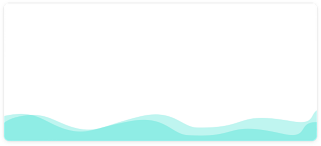
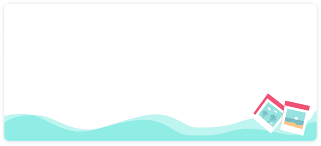
user scenic页面调整

Changed region(s): [[0.7788, 0.6301, 0.9657, 0.9315]]

diff --git a/src/views/css/user.scss b/src/views/css/user.scss
@@ -92,7 +92,7 @@ html, body, #root, .container2 {
             p {
               font-size: .1rem;
               line-height: .1rem;
-              color: darkgray;
+              color: #7E7E7E;
               margin-top: .16rem;
             }
             .loginbtn {
@@ -131,12 +131,12 @@ html, body, #root, .container2 {
             background:url("../../assets/fly.png") no-repeat;
             h5 {
               font:0.15rem/0.3rem "";
-              color: darkgray;
+              color: #050505;
               margin: .2rem 0 0 .17rem;
             }
             p {
               font:0.12rem/0.2rem "";
-              color: darkgray;
+              color: #777777;
               margin-left: .17rem;
             }
           }
@@ -148,7 +148,7 @@ html, body, #root, .container2 {
             background:url("../../assets/usertravels.png") no-repeat;
             h5 {
               font:0.15rem/0.3rem "";
-              color: darkgray;
+              color: #050505;
               margin: .1rem 0 0 .17rem;
             }
             .usershare {
@@ -168,27 +168,32 @@ html, body, #root, .container2 {
             }
             p {
               text-align: center;
-              font: .01rem/.1rem "";
+              font: .12rem/.1rem "";
               margin-top: .14rem;
-              color: darkgray;
+              color:#050505;
             }
           }
           .usertip {
             text-align: center;
             padding-top: .16rem;
             color: darkgray;
+            .te {
+              color:#E5E5E5;
+              font-size: .01rem;
+            }
             span {
               margin: 0 .03rem;
               font-size: .13rem;
+              color:#666666;
             }
           }
-          .img {
-            float: right;
-            margin-top: -0.29rem;
-            img {
-              margin-right: .05rem;
-            }
-          }
+          // .img {
+          //   float: right;
+          //   margin-top: -0.29rem;
+          //   img {
+          //     margin-right: .05rem;
+          //   }
+          // }
           .myorder {
             width: 3.2rem;
             height: 1.23rem;
@@ -198,7 +203,7 @@ html, body, #root, .container2 {
             margin-top: .2rem;
             h5 {
               font:0.15rem/0.3rem "";
-              color: darkgray;
+              color: #050505;
               margin: .1rem 0 0 .17rem;
             }
             ul {
@@ -211,7 +216,7 @@ html, body, #root, .container2 {
                 text-align: center;
                 p {
                   margin-top:.1rem;
-                  color: darkgray;
+                  color: #878787;
                   font-size: .12rem;
                 }
               }
@@ -224,7 +229,7 @@ html, body, #root, .container2 {
             margin-top: .2rem;
             h5 {
               font:0.15rem/0.3rem "";
-              color: darkgray;
+              color: #050505;
               margin: .1rem 0 0 .17rem;
             }
             ul {
@@ -236,11 +241,11 @@ html, body, #root, .container2 {
                 float: left;
                 text-align: center;
                 span {
-                  color: darkgray;
+                  color: #666666;
                   font-size: .2rem;
                 }
                 p {
-                  color: darkgray;
+                  color: #878787;
                   font-size: .12rem;
                 }
               }

diff --git a/src/views/scenic/UI.js b/src/views/scenic/UI.js
@@ -2,15 +2,18 @@ import React from 'react';
 import '@/views/css/scenic.scss'
 
 class Com extends React.Component {
+  goback () {
+    this.props.history.go(-1)
+  }
   render() {
     console.log(this.props)
     return (
       <div className = "bigbox">
         <header className = "header">
-            <span className = "goback iconfont iconfanhuijiantou1"></span>
+            <span className = "goback iconfont iconfanhuijiantou1" onClick= { this.goback.bind(this) }></span>
             <div className="search">
               <span className = "first iconfont iconsousuo1"></span>
-              <input type="text" value = "" />
+              <input type="text" />
               <span className = "cancel">取消</span>
             </div>
         </header>
@@ -32,28 +35,35 @@ class Com extends React.Component {
             </div>
             <div className = "nav">
               <div className = "nav-l">
-                <select>
+                <span className = "text">全部景点</span>
+                <span className = "nav-tu iconfont iconxiala"></span>
+                {/* <select>
                   <option value="全部景点">全部景点</option>
                   <option value="大雁塔">大雁塔</option>
                   <option value="华清池">华清池</option>
                   <option value="华清池">华清池</option>
-                </select>
+                </select> */}
               </div>
               <div className = "nav-l">
-                <select>
+                <span className = "text">智能排序</span>
+                <span className = "nav-tu iconfont iconxiala"></span>
+
+                {/* <select>
                   <option value="智能排序">智能排序</option>
                   <option value="大雁塔">大雁塔</option>
                   <option value="华清池">华清池</option>
                   <option value="华清池">华清池</option>
-                </select>
+                </select> */}
               </div>
               <div className = "nav-l">
-                <select>
+              <span className = "text">筛选</span>
+                <span className = "nav-tu iconfont iconxiala"></span>
+                {/* <select>
                   <option value="筛选">筛选</option>
                   <option value="大雁塔">大雁塔</option>
                   <option value="华清池">华清池</option>
                   <option value="华清池">华清池</option>
-                </select>
+                </select> */}
               </div>
             </div>
         <div className = "main">

diff --git a/src/views/user/UI.js b/src/views/user/UI.js
@@ -2,8 +2,8 @@ import React from 'react';
 import '@/views/css/user.scss';
 import userLogo from '@/assets/logo.png';
 import userAdd from '@/assets/useradd.png';
-import userPhoto from '@/assets/userphoto.png';
-import userPhoto1 from '@/assets/userphoto1.png';
+// import userPhoto from '@/assets/userphoto.png';
+// import userPhoto1 from '@/assets/userphoto1.png';
 import userLogin from '@/assets/userlogin.png';
 import One from '@/assets/one.png';
 import Two from '@/assets/two.png';
@@ -54,20 +54,20 @@ class Com extends React.Component {
                   </div>
                   <p>用照片记录旅行的小技巧</p>
                   <div className="usertip">
-                    <span>|</span>
+                    <span className = "te">|</span>
                     <span>笔记</span>
-                    <span>|</span>
+                    <span className = "te">|</span>
                     <span>游记</span>
-                    <span>|</span>
+                    <span className = "te">|</span>
                     <span>问答</span>
-                    <span>|</span>
+                    <span className = "te">|</span>
                     <span>点评</span>
-                    <span>|</span>
+                    <span className = "te">|</span>
                   </div>
-                  <div className="img">
+                  {/* <div className="img">
                     <img src={ userPhoto } alt=""/>
                     <img src={ userPhoto1 } alt=""/>
-                  </div>
+                  </div> */}
                 </div>
                 <div className="myorder">
                   <h5>我的订单</h5>

diff --git a/src/views/css/scenic.scss b/src/views/css/scenic.scss
@@ -14,7 +14,7 @@ html, body, #root .bigbox{
     background:url("../../assets/scenicheader.png") no-repeat;
     .goback {
       float: left;
-      padding:.33rem 0 0 .17rem;
+      padding:.3rem 0 0 .17rem;
       color:#fff;
     }
     .search {
@@ -60,6 +60,7 @@ html, body, #root .bigbox{
         img {
           width:98px;
           height:104px;
+          border-radius: .05rem;
         }
         .scenictitle{
           text-align: center;
@@ -70,16 +71,31 @@ html, body, #root .bigbox{
       }
     }
     .nav {
-      margin-top:.16rem;
-      display: flex;
+      margin:.16rem 0 .08rem 0;
+      @include flexbox();
       flex-direction: row;
       justify-content: space-around;
+      text-align: center;
       .nav-l {
-        select {
-          border:none;
+        @include flex();
+        align-items:center;
+        text-align: center;
+        // justify-content: space-around;
+        width:.7rem;
+        height:.16rem;
+        line-height: .16rem;
+        .text {
           font-size:.11rem;
-          color: #000;
+          color:#000000;
         }
+          .nav-tu {
+            font-size: .1rem;
+          }
+        // select {
+        //   border:none;
+        //   font-size:.11rem;
+        //   color: #000;
+        // }
       }
     }
     .main {
@@ -140,7 +156,7 @@ html, body, #root .bigbox{
            
             }
             .grae {
-              margin-left: .38rem;
+              margin: 0 .03rem 0 .3rem;
               width:.26rem;
               height:.15rem;
               background:#00cccc;

diff --git a/public/index.html b/public/index.html
@@ -10,7 +10,7 @@
       user's mobile device or desktop. See https://developers.google.com/web/fundamentals/web-app-manifest/
     -->
     <link rel="manifest" href="%PUBLIC_URL%/manifest.json" />
-    <link rel="stylesheet" href="//at.alicdn.com/t/font_1256521_ngvlpo96d9e.css">
+    <link rel="stylesheet" href="//at.alicdn.com/t/font_1256521_59k6ag8wwla.css">
     <!--
       Notice the use of %PUBLIC_URL% in the tags above.
       It will be replaced with the URL of the `public` folder during the build.
